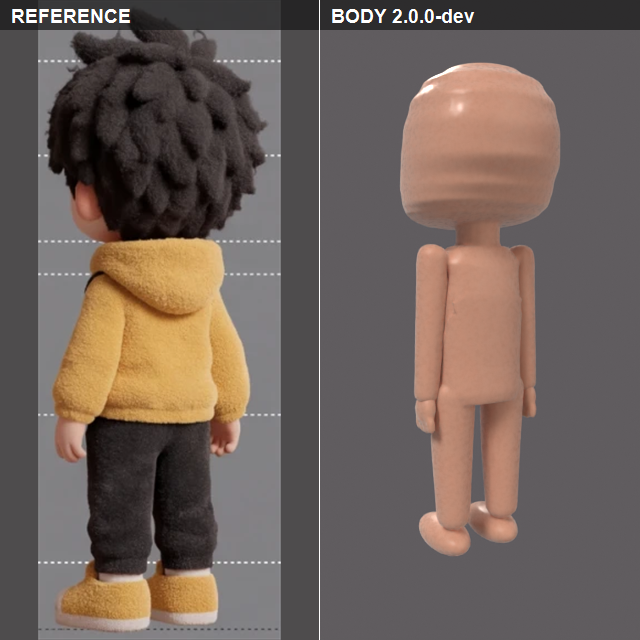
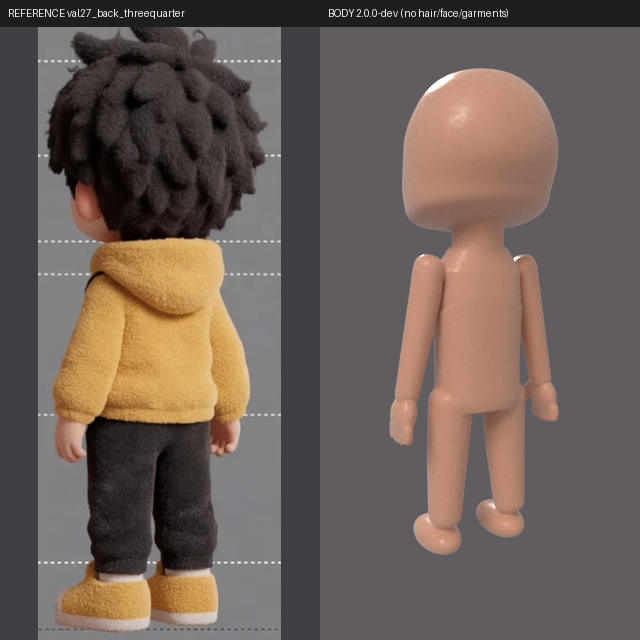
T-039: fit boy 2.0 body proportions in head units (smooth head loft, opt-in leg.ankle_x)
Claude-Session: https://claude.ai/code/session_01NPjxeNsfEBVVXgKhnVJC6y

diff --git a/pipeline/charsys/body_generic.py b/pipeline/charsys/body_generic.py
@@ -16,7 +16,8 @@ length a FRACTION OF height_m (angles in degrees):
   arm:      angle_deg (below horizontal), upper_len, fore_len, radii [shoulder, elbow, wrist]
   hand:     palm_len, palm_half_width, palm_half_thick, finger_len [index, middle, ring, pinky], finger_radius,
             thumb_len, thumb_radius, finger_curl (0..0.4)
-  leg:      hip_x, hip_z, knee_z, ankle_z, radii [thigh, knee, ankle]
+  leg:      hip_x, hip_z, knee_z, ankle_z, radii [thigh, knee, ankle]; optional ankle_x (feet set wider than the
+            hips, an A-stance; the knee follows linearly; default hip_x = straight vertical legs, unchanged)
   foot:     length, half_width, height, heel_back
   eyes:     x, z, y                      (eye bones for gaze; the eye meshes belong to the face, M3)
 Optional `spec.rig.joints`: {joint name: [x, y, z] in metres} overrides any derived joint.
@@ -67,8 +68,11 @@ def joints(P, H, overrides=None):
         hx = sx * P["leg"]["hip_x"] * H
         J[f"pelvis.{s}"] = Vector((hx, -0.3 * P["leg"]["hip_x"] * H, hip_z + 0.5 * (sh_z - hip_z) * 0.3))
         J[f"hip.{s}"] = Vector((hx, 0, hip_z))
-        J[f"knee.{s}"] = Vector((hx, -0.004 * H, P["leg"]["knee_z"] * H))
-        J[f"ankle.{s}"] = Vector((hx, 0, P["leg"]["ankle_z"] * H))
+        ax = sx * P["leg"].get("ankle_x", P["leg"]["hip_x"]) * H  # optional A-stance (default: vertical legs)
+        kt = (hip_z - P["leg"]["knee_z"] * H) / max(1e-9, hip_z - P["leg"]["ankle_z"] * H)
+        J[f"knee.{s}"] = Vector((hx + (ax - hx) * kt, -0.004 * H, P["leg"]["knee_z"] * H))
+        J[f"ankle.{s}"] = Vector((ax, 0, P["leg"]["ankle_z"] * H))
+        hx = ax  # the foot joints sit under the ankle
         fl, fh = P["foot"]["length"] * H, P["foot"]["height"] * H
         J[f"toe.{s}"] = Vector((hx, -0.55 * fl, 0.35 * fh))
         J[f"toe_tip.{s}"] = Vector((hx, -0.95 * fl, 0.35 * fh))
@@ -116,12 +120,38 @@ def _superellipse_gain(t, n, cap=2.6):
     return min(cap, (1.0 - t ** n) ** (1.0 / n) / math.sqrt(1.0 - t * t))
 
 
+def _dense_profile(levels, steps):
+    """Resample profile rows [z, values...] at `steps` + 1 evenly spaced heights with a Catmull-Rom curve through the
+    rows, so the loft (which samples exactly these heights) is smooth across the keys instead of terracing at each
+    one. Used only by the optional head profile loft."""
+    zs = [r[0] for r in levels]
+    out = []
+    for k in range(steps + 1):
+        z = zs[0] + (zs[-1] - zs[0]) * k / steps
+        i = max(0, min(len(levels) - 2, max(j for j in range(len(zs)) if zs[j] <= z) if z > zs[0] else 0))
+        t = (z - zs[i]) / max(1e-9, zs[i + 1] - zs[i])
+        p0, p1, p2, p3 = (levels[max(0, i - 1)], levels[i], levels[i + 1], levels[min(len(levels) - 1, i + 2)])
+        row = [z]
+        for c in range(1, len(p1)):
+            # non-uniform key spacing: tangents scaled to the local segment (finite differences over the neighbours)
+            h = zs[i + 1] - zs[i]
+            m1 = (p2[c] - p0[c]) / max(1e-9, p2[0] - p0[0]) * h
+            m2 = (p3[c] - p1[c]) / max(1e-9, p3[0] - p1[0]) * h
+            t2, t3 = t * t, t * t * t
+            v = ((2 * t3 - 3 * t2 + 1) * p1[c] + (t3 - 2 * t2 + t) * m1 + (-2 * t3 + 3 * t2) * p2[c]
+                 + (t3 - t2) * m2)
+            row.append(v if c < 3 else max(v, 1e-4))  # widths and depths stay positive
+        out.append(row)
+    return out
+
+
 def build_body(C, M, P, H, J, frames):
     """Body skin (head, neck, torso, arms, legs, feet; one remeshed surface) and the two hands. Returns
     [(object, role)] with roles 'skin' and 'hand'."""
     hp = P["head"]
     if hp.get("profile_levels"):  # optional asymmetric head loft (absent = the ellipsoid below, unchanged)
-        profile = [[x * H for x in level] for level in hp["profile_levels"]]
+        profile = _dense_profile([[x * H for x in level] for level in hp["profile_levels"]],
+                                 int(hp.get("profile_steps", 56)))
         head = G.profile_loft("_head", profile, C, n=float(hp.get("profile_exponent", 2.25)),
                               seg=int(hp.get("profile_segments", 64)), steps=int(hp.get("profile_steps", 56)))
         cz = hp["centre_z"] * H

diff --git a/docs/evaluation/characters/T-039/make_turnaround.py b/docs/evaluation/characters/T-039/make_turnaround.py
@@ -1,0 +1,43 @@
+"""T-039 evidence: 640 px reference | body-render pairs plus a 5-view strip, from a tools/fidelity/run.py output.
+
+    python3 docs/evaluation/characters/T-039/make_turnaround.py build/t039_it3 docs/evaluation/characters/T-039/turnaround
+"""
+import os
+import sys
+
+from PIL import Image, ImageDraw
+
+VIEWS = ("val27_front", "val27_threequarter_right", "val27_side_right", "val27_back", "val27_back_threequarter")
+REF = "assets/characters/boy_yellow_hoodie/references/views"
+
+
+def panel(img, label, w=320, h=640, bg=(64, 64, 68)):
+    p = Image.new("RGB", (w, h), bg)
+    s = h / img.height
+    im = img.convert("RGB").resize((round(img.width * s), h), Image.LANCZOS)
+    p.paste(im, ((w - im.width) // 2, 0))
+    d = ImageDraw.Draw(p)
+    d.rectangle((0, 0, w, 26), fill=(30, 30, 32))
+    d.text((8, 7), label, fill=(240, 240, 240))
+    return p
+
+
+def main(run, out):
+    os.makedirs(out, exist_ok=True)
+    strip = Image.new("RGB", (640 * len(VIEWS) // 2, 640), (64, 64, 68))
+    for i, v in enumerate(VIEWS):
+        ref = panel(Image.open(os.path.join(REF, v + ".png")), "REFERENCE " + v)
+        ren = panel(Image.open(os.path.join(run, "renders", v + ".png")), "BODY 2.0.0-dev (no hair/face/garments)")
+        pair = Image.new("RGB", (640, 640))
+        pair.paste(ref, (0, 0))
+        pair.paste(ren, (320, 0))
+        pair.save(os.path.join(out, v + ".png"), optimize=True)
+        strip.paste(ren.resize((128, 256)), (128 * i, 384))
+        strip.paste(ref.resize((128, 256)), (128 * i, 128))
+    d = ImageDraw.Draw(strip)
+    d.text((8, 100), "top: reference views   bottom: body 2.0.0-dev (same views, shared calibration)", fill=(240, 240, 240))
+    strip.crop((0, 90, 640, 640)).save(os.path.join(out, "turnaround_strip.png"), optimize=True)
+
+
+if __name__ == "__main__":
+    main(sys.argv[1], sys.argv[2])
